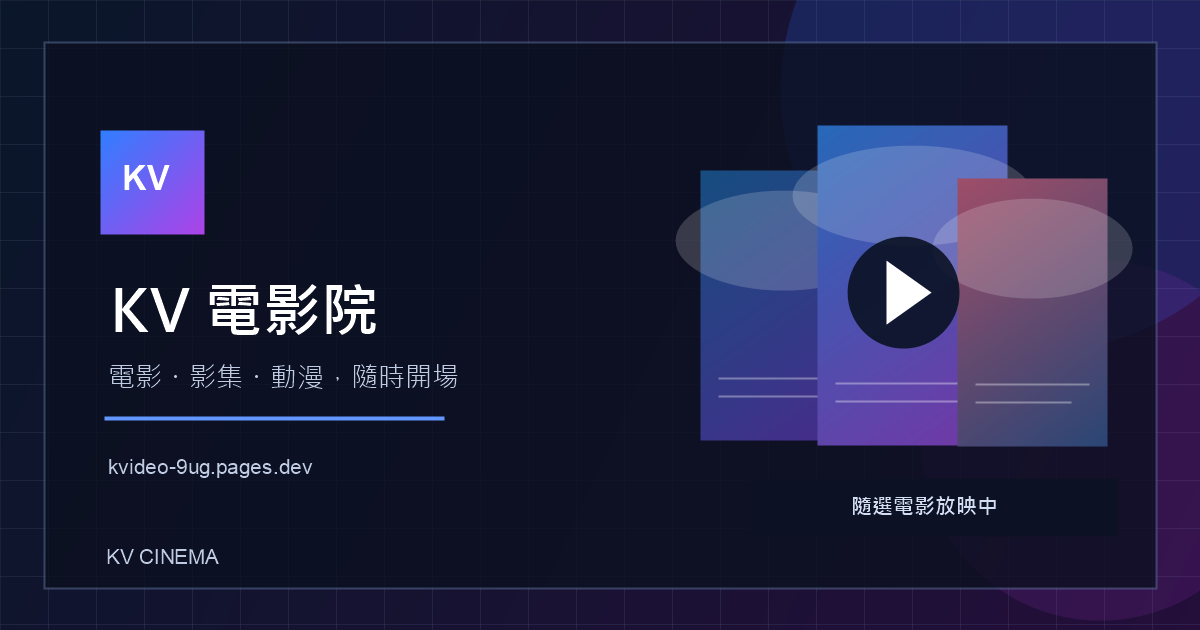
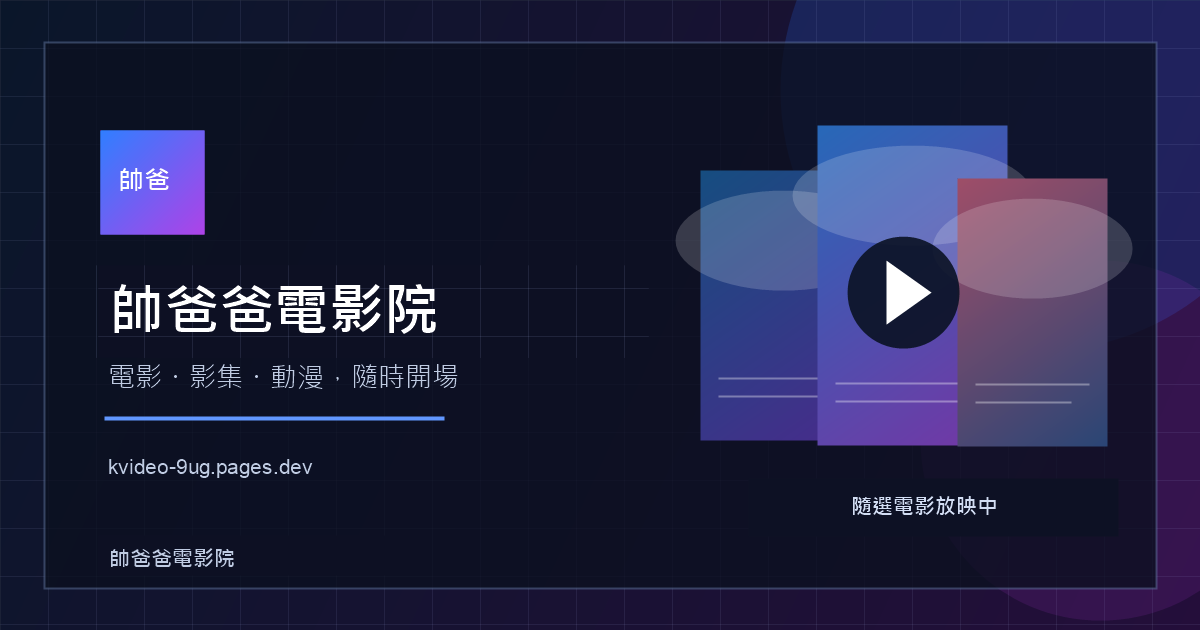
Rename sharing artwork to Shuaibaba Cinema

Changed region(s): [[0.0925, 0.4524, 0.37, 0.5429], [0.0925, 0.8746, 0.2158, 0.9048], [0.0925, 0.2413, 0.1542, 0.3016]]

diff --git a/app/layout.tsx b/app/layout.tsx
@@ -71,14 +71,14 @@ export const metadata: Metadata = {
   title: siteConfig.title,
   description: siteConfig.description,
   openGraph: {
-    title: siteConfig.name,
+    title: '帥爸爸電影院',
     description: siteConfig.description.trim() || '電影・影集・動漫，隨時開場',
     images: [
       {
         url: 'https://kvideo-9ug.pages.dev/og-image.png',
         width: 1200,
         height: 630,
-        alt: 'KV 電影院電影主題分享封面',
+        alt: '帥爸爸電影院電影主題分享封面',
       },
     ],
   },
